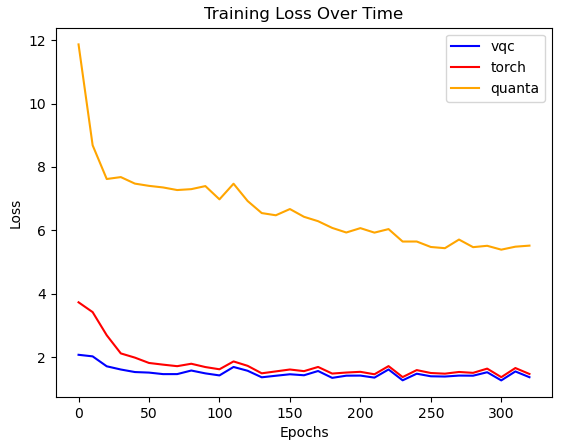
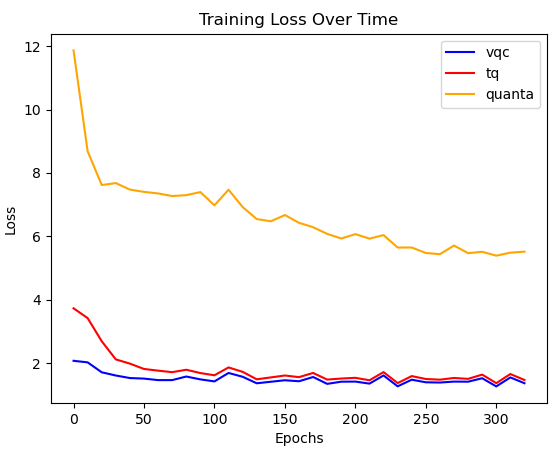
[fix] fix llm.rst file

diff --git a/source/rst/llm.rst b/source/rst/llm.rst
@@ -5,21 +5,26 @@
 一些大模型微调方法被提出，不再对大模型全参数进行微调，而是通过提出的微调方法对少量的参数进行训练，从而使大模型在下游任务中依旧能取得不弱于全参数微调的效果，
 而基于量子线路来进行微调的方式尚未得到普及。
 
-VQNet则设计了一个量子线路用于大模型微调中, 与 ``Llama factory``, ``peft`` 结合, 实现基于vqc模块进行大模型微调任务。
+``VQNet`` 通过与 ``Llama factory``, ``peft`` 结合, 实现基于量子线路来进行大模型微调任务。
 
-VQNet版本为 ``2.15.0`` 及以上
+量子大模型微调依赖包安装
+-------------------------
 
-首先下载 ``llama_factory_peft_vqc`` 库 
+该模块介绍在使用量子线路用于大模型微调中, 如何去对所需依赖包进行安装。
+
+使用量子大模型微调, 主要需要 ``llama_factory_peft_vqc`` 和 ``pyvqnet`` 两个包即可， 其中 ``llama_factory_peft_vqc`` 目前是内部文件， ``pyvqnet`` 版本要求 ``2.15.0`` 或者以上即可。
+
+首先介绍 ``llama_factory_peft_vqc`` 内部库的安装
 
 .. code-block::
     
     git clone git@gitlab.qpanda.cn:BY210091/llama_factory_peft_vqc.git
 
-    # 切换到0.1分支
+    # 切换到0.1分支，目前代码文件均在0.1分支上
     git checkout -b 0.1 origin/0.1
 
 
-随后根据README.md文档中内容补充
+随后根据 ``llama_factory_peft_vqc`` 中 ``README.md`` 文档中内容完成其他依赖库以及文件安装
 
 .. code-block::
     
@@ -29,8 +34,15 @@ VQNet版本为 ``2.15.0`` 及以上
     # 安装peft_vqc
     cd peft_vqc pip install -e .
 
+完成 ``llama_factory_peft_vqc`` 库以及依赖库安装后，则对 ``pyvqnet`` 进行安装
+.. code-block::
+    
     # 安装VQNet
     pip install pyvqnet==2.15.0 --index-url https://pypi.originqc.com.cn
+
+
+量子大模型微调训练步骤
+-------------------------
 
 完成需求包安装后, 可以参考文件目录 ``/llama_factory_peft_vqc/examples/qlora_single_gpu/`` 下 ``train.sh`` 等脚本, 根据脚本指定训练基准模型，微调模块选择，微调模块输出路径等参数.
 
@@ -72,7 +84,14 @@ VQNet版本为 ``2.15.0`` 及以上
         --fp16 \
         --do-train \
 
-在量子大模型微调模块中, 相较经典的大模型微调模块, 添加了三种额外的微调方式, 除了上面基于VQNet实现的vqc微调模块 ``vqc`` 、量子张量分解模块 ``quanTA``, 还有基于torch quantum实现的vqc模块  ``tq``, 
+在量子大模型微调模块中, 相较经典的大模型微调模块, 添加了三种额外的微调方式, 分别为：
+
+``vqc`` : 基于VQNet实现的vqc微调模块 
+
+``quanTA`` : 量子张量分解模块 
+
+``tq`` : 基于torch quantum实现的vqc模块  
+
 上述的 ``train.sh`` 样例中是 ``vqc`` 模块微调的脚本样例, 若使用另外两种微调模块则将 ``finetuning_type`` 改为 ``quanTA`` , ``tq`` 即可，将三个模块实验结果记录并绘图， 结果如下:
 
 .. image:: ./images/peft_vqc1.png
@@ -147,7 +166,8 @@ VQNet版本为 ``2.15.0`` 及以上
 
 随后可以调用生成后的模型进行微调训练, 查看是否能够收敛, 将脚本 ``train.sh`` 中参数 ``model_name_or_path`` 改成生成的模型路径 ``../../saves/export_model/Qwen2.5-0.5B/vqc/alpaca_gpt4_en`` 即可。
 
-更多相关参数具体介绍如下:
+更多相关参数具体介绍
+-------------------------
 
 ==============================     ===================================================================
                         微调模块参数介绍
